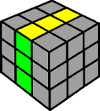
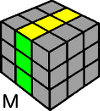
[basics] Add notation letter to image

Changed region(s): [[0.03, 0.8378, 0.18, 0.973]]

diff --git a/src/3x3x3/podstawy.md b/src/3x3x3/podstawy.md
@@ -55,16 +55,16 @@ Nie występują kombinacje posiadające zarówno znak `'` jak i cyfrę `2` np. `
 Przykład wykonania ruchu `R` - obrotu prawej ścianki o 90 stopni zgodnie z ruchem wskazówek zegara:
 
 <p markdown="1" class="centered">
-Przed: ![Przed ruchem R](%site.assets%/images/3x3x3/basics/ok.png)
-Po: ![Po ruchu R](%site.assets%/images/3x3x3/basics/R.png)
+![Przed ruchem R](%site.assets%/images/3x3x3/basics/ok.png)
+![Po ruchu R](%site.assets%/images/3x3x3/basics/R.png)
 </p>
 
 Kolejnymi oznaczeniami w notacji są ścianki środkowe. Możemy rozróżnić trzy: `M`, `E`, `S`. O ile w algorytmach możemy się spotkać z wykorzystaniem ścianki `M` o tyle `E` i `S` są rzadkością ponieważ ich obracanie bez odwracania całej kostki jest dość niewygodne.
 
 <p markdown="1" class="centered">
-M: ![Ścianka środkowa M](%site.assets%/images/3x3x3/basics/M.png)
-E: ![Ścianka środkowa E](%site.assets%/images/3x3x3/basics/E.png)
-S: ![Ścianka środkowa S](%site.assets%/images/3x3x3/basics/S.png)
+![Ścianka środkowa M](%site.assets%/images/3x3x3/basics/M.png)
+![Ścianka środkowa E](%site.assets%/images/3x3x3/basics/E.png)
+![Ścianka środkowa S](%site.assets%/images/3x3x3/basics/S.png)
 </p>
 
 Spotyka się także algorytmy wykorzystujące małe litery `l`, `r`, `b`, `u`, `f`, `d`. Oznaczają one ruch daną ścianką oraz przylegającą do niej ścianką środkową w tym samym kierunku.
@@ -72,6 +72,6 @@ Spotyka się także algorytmy wykorzystujące małe litery `l`, `r`, `b`, `u`, `
 Przykład wykonania ruchu `r` - obrotu prawej ścianki oraz przylegającej ścianki środkowej o 90 stopni zgodnie z ruchem wskazówek zegara:
 
 <p markdown="1" class="centered">
-Przed: ![Przed ruchem r](%site.assets%/images/3x3x3/basics/ok.png)
-Po: ![Po ruchu r](%site.assets%/images/3x3x3/basics/r-m.png)
+![Przed ruchem r](%site.assets%/images/3x3x3/basics/ok.png)
+![Po ruchu r](%site.assets%/images/3x3x3/basics/r-m.png)
 </p>
